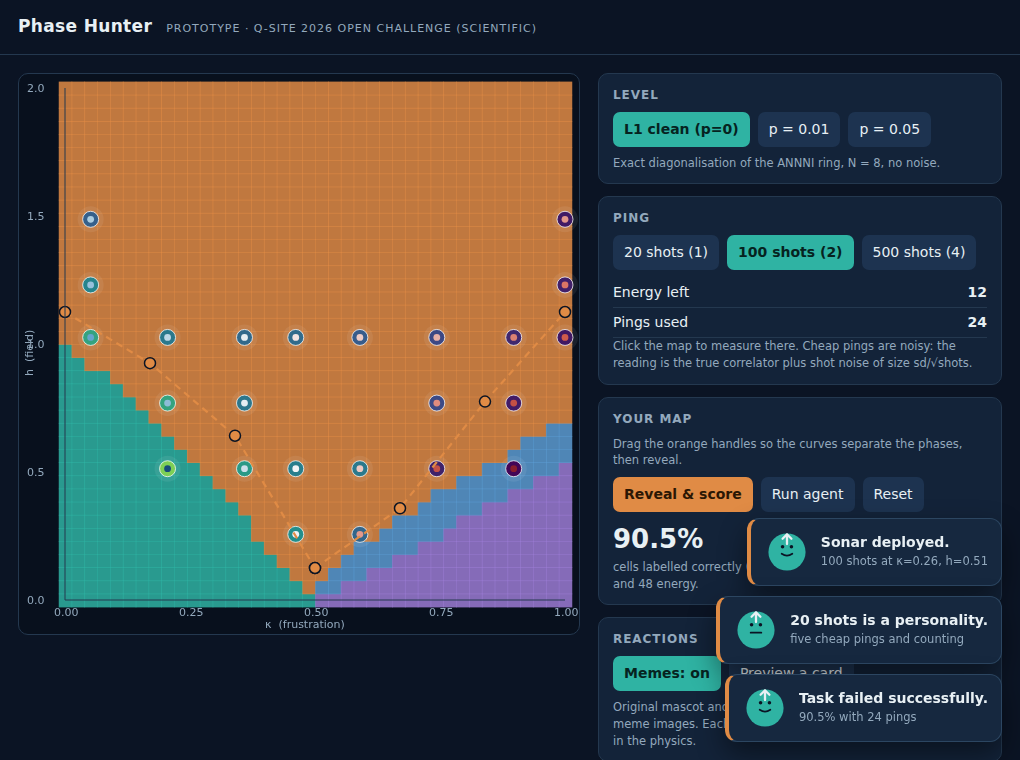
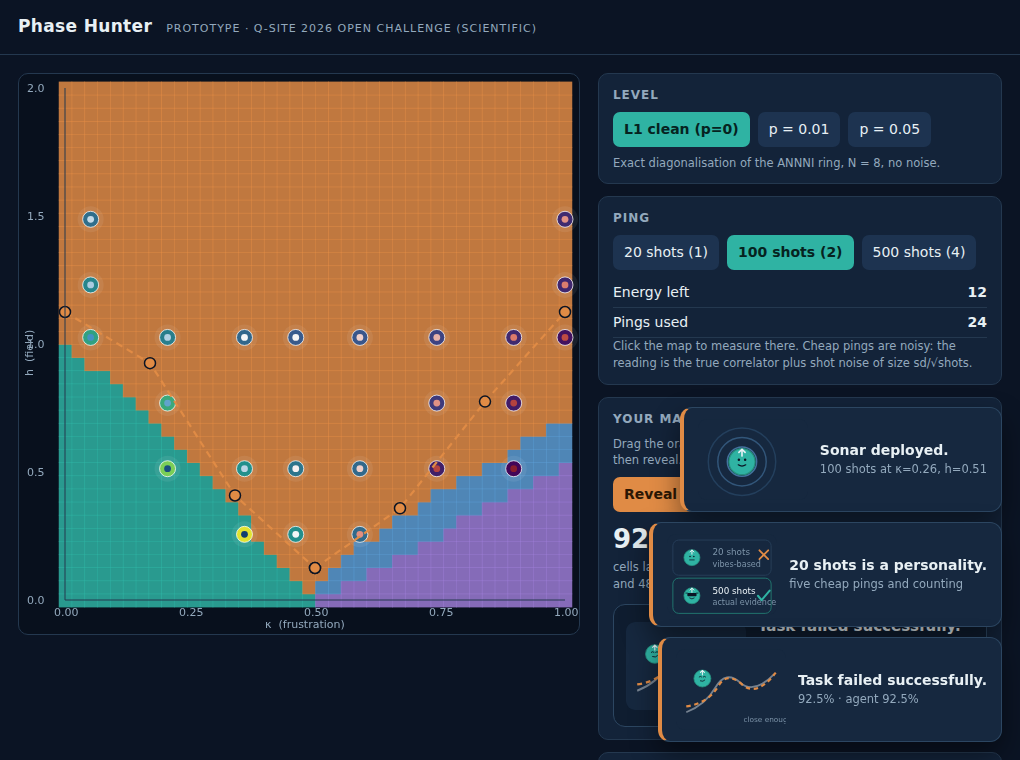
Draw the memes: 13 original SVG scenes instead of text-only cards
game/memes.js holds the mascot and every scene (wobbling measurement, two-panel
shot comparison, balloon over the floating band, fog bank, trophy robot, stamp).
Revealing a map now also prints a screenshot-ready result panel. All art is ours;
no copyrighted meme images or photographs.

diff --git a/game/memes.js b/game/memes.js
@@ -1,0 +1,200 @@
+/* Phase Hunter reaction art.
+   Every scene below is drawn from scratch as SVG: our own mascot (Spinny, a
+   spin arrow with a face), our own props, our own captions. No copyrighted
+   meme images, photographs, or real people's likenesses ship with this game.  */
+
+const MEME_PALETTE = {
+  ink:"#0B1424", skin:"#2FB3A3", skin2:"#26907F", light:"#E8F0F4",
+  orange:"#E08B45", purple:"#9B7BD4", blue:"#5C9BD1", grey:"#7C93A8", dark:"#16283F"
+};
+
+/* ---- the mascot ------------------------------------------------------- */
+function face(mood){
+  const P = MEME_PALETTE;
+  return {
+    neutral:`<circle cx="-5" cy="-3" r="2" fill="${P.ink}"/><circle cx="5" cy="-3" r="2" fill="${P.ink}"/>
+             <path d="M-6 5 q6 4 12 0" stroke="${P.ink}" stroke-width="2" fill="none" stroke-linecap="round"/>`,
+    cool:`<rect x="-12" y="-7" width="24" height="8" rx="2" fill="${P.ink}"/>
+          <path d="M-12 -7 h-4 M12 -7 h4" stroke="${P.ink}" stroke-width="2" stroke-linecap="round"/>
+          <path d="M-6 6 q6 5 12 0" stroke="${P.ink}" stroke-width="2" fill="none" stroke-linecap="round"/>`,
+    shock:`<circle cx="-5" cy="-4" r="3.2" fill="${P.ink}"/><circle cx="5" cy="-4" r="3.2" fill="${P.ink}"/>
+           <ellipse cx="0" cy="6" rx="4" ry="5" fill="${P.ink}"/>`,
+    sweat:`<circle cx="-5" cy="-3" r="2" fill="${P.ink}"/><circle cx="5" cy="-3" r="2" fill="${P.ink}"/>
+           <path d="M-6 7 q6 -4 12 0" stroke="${P.ink}" stroke-width="2" fill="none" stroke-linecap="round"/>
+           <path d="M13 -10 q3 5 0 7 q-3 -2 0 -7" fill="${P.blue}"/>`,
+    flat:`<circle cx="-5" cy="-3" r="2" fill="${P.ink}"/><circle cx="5" cy="-3" r="2" fill="${P.ink}"/>
+          <path d="M-6 6 h12" stroke="${P.ink}" stroke-width="2" stroke-linecap="round"/>`,
+    smug:`<path d="M-8 -4 q3 -3 6 0" stroke="${P.ink}" stroke-width="2" fill="none" stroke-linecap="round"/>
+          <path d="M2 -4 q3 -3 6 0" stroke="${P.ink}" stroke-width="2" fill="none" stroke-linecap="round"/>
+          <path d="M-5 6 q7 3 11 -2" stroke="${P.ink}" stroke-width="2" fill="none" stroke-linecap="round"/>`,
+    dizzy:`<path d="M-8 -6 l6 6 M-2 -6 l-6 6" stroke="${P.ink}" stroke-width="2" stroke-linecap="round"/>
+           <path d="M2 -6 l6 6 M8 -6 l-6 6" stroke="${P.ink}" stroke-width="2" stroke-linecap="round"/>
+           <path d="M-5 7 q5 -5 10 0" stroke="${P.ink}" stroke-width="2" fill="none" stroke-linecap="round"/>`
+  }[mood] || "";
+}
+function spin(mood, x=0, y=0, size=1, tilt=0, glow=0){
+  const P = MEME_PALETTE;
+  return `<g transform="translate(${x} ${y}) scale(${size}) rotate(${tilt})">
+    ${glow ? `<circle r="30" fill="${P.skin}" opacity="${0.12*glow}"/><circle r="24" fill="${P.skin}" opacity="${0.12*glow}"/>`:""}
+    <circle r="21" fill="${P.skin}"/><circle r="21" fill="none" stroke="${P.skin2}" stroke-width="2"/>
+    <path d="M0 -20 v11 M-5 -15 l5 -5 l5 5" stroke="${P.light}" stroke-width="2.6" fill="none"
+          stroke-linecap="round" stroke-linejoin="round"/>
+    ${face(mood)}</g>`;
+}
+const svg = (w,h,body,bg="#16283F") =>
+  `<svg viewBox="0 0 ${w} ${h}" width="100%" height="100%" preserveAspectRatio="xMidYMid meet" aria-hidden="true">
+     <rect width="${w}" height="${h}" rx="10" fill="${bg}"/>${body}</svg>`;
+const P = MEME_PALETTE;
+
+/* ---- scenes ----------------------------------------------------------- */
+const SCENES = {
+  /* a wobbly measuring stick and two numbers that disagree */
+  trust: svg(150,110,`
+    <text x="14" y="26" fill="${P.grey}" font-size="13" font-family="system-ui">truth 0.48</text>
+    <text x="14" y="96" fill="${P.orange}" font-size="15" font-weight="700" font-family="system-ui">read 0.71</text>
+    <path d="M12 60 H138" stroke="${P.grey}" stroke-width="2" stroke-dasharray="4 5"/>
+    <path d="M30 60 q20 -26 40 -4 q18 20 40 -16" stroke="${P.orange}" stroke-width="3" fill="none" stroke-linecap="round"/>
+    ${spin("shock",112,34,0.72)}`),
+
+  /* sonar rings going out from the mascot */
+  sonar: svg(150,110,`
+    <circle cx="60" cy="58" r="20" fill="none" stroke="${P.blue}" stroke-width="2" opacity=".65"/>
+    <circle cx="60" cy="58" r="33" fill="none" stroke="${P.blue}" stroke-width="2" opacity=".4"/>
+    <circle cx="60" cy="58" r="46" fill="none" stroke="${P.blue}" stroke-width="2" opacity=".2"/>
+    ${spin("neutral",60,58,0.85)}`),
+
+  /* sunglasses drop: mascot above a beaten robot rival */
+  shades: svg(150,110,`
+    ${spin("cool",50,55,1.05)}
+    <g transform="translate(112 62)">
+      <rect x="-16" y="-16" width="32" height="30" rx="7" fill="${P.dark}" stroke="${P.grey}" stroke-width="2"/>
+      <circle cx="-6" cy="-4" r="2.4" fill="${P.grey}"/><circle cx="6" cy="-4" r="2.4" fill="${P.grey}"/>
+      <path d="M-7 7 q7 -5 14 0" stroke="${P.grey}" stroke-width="2" fill="none" stroke-linecap="round"/>
+      <path d="M0 -16 v-7" stroke="${P.grey}" stroke-width="2"/><circle cx="0" cy="-25" r="2.6" fill="${P.grey}"/>
+    </g>
+    <text x="96" y="100" fill="${P.grey}" font-size="11" font-family="system-ui">the agent</text>`),
+
+  /* the scenic route: a winding path past the target */
+  scenic: svg(150,110,`
+    <path d="M16 94 q30 -18 12 -34 q-16 -16 24 -24 q40 -8 76 10" stroke="${P.orange}" stroke-width="3"
+          fill="none" stroke-dasharray="6 6" stroke-linecap="round"/>
+    <circle cx="128" cy="46" r="7" fill="none" stroke="${P.light}" stroke-width="2"/>
+    <circle cx="128" cy="46" r="2.5" fill="${P.light}"/>
+    ${spin("sweat",34,72,0.62,-8)}
+    <g transform="translate(58 84)"><rect x="-9" y="-7" width="18" height="13" rx="2" fill="${P.purple}"/>
+      <path d="M-4 -7 v-3 h8 v3" stroke="${P.purple}" stroke-width="2" fill="none"/></g>`),
+
+  /* empty battery */
+  broke: svg(150,110,`
+    <g transform="translate(96 56)">
+      <rect x="-34" y="-17" width="64" height="34" rx="6" fill="none" stroke="${P.grey}" stroke-width="3"/>
+      <rect x="34" y="-7" width="6" height="14" rx="2" fill="${P.grey}"/>
+      <rect x="-29" y="-12" width="8" height="24" rx="2" fill="${P.orange}"/>
+    </g>
+    ${spin("dizzy",40,58,0.8)}`),
+
+  /* floating phase: mascot drifting up on a balloon between two lines */
+  floating: svg(150,110,`
+    <path d="M10 82 H140" stroke="${P.purple}" stroke-width="2.5"/>
+    <path d="M10 34 H140" stroke="${P.orange}" stroke-width="2.5" stroke-dasharray="5 5"/>
+    <text x="12" y="96" fill="${P.purple}" font-size="10" font-family="system-ui">antiphase</text>
+    <text x="12" y="26" fill="${P.orange}" font-size="10" font-family="system-ui">paramagnet</text>
+    <path d="M75 46 v12" stroke="${P.light}" stroke-width="1.5"/>
+    <ellipse cx="75" cy="40" rx="9" ry="11" fill="${P.blue}" opacity=".8"/>
+    ${spin("shock",75,66,0.6)}`),
+
+  /* fog rolling in */
+  fog: svg(150,110,`
+    ${spin("sweat",44,66,0.8)}
+    <g fill="${P.grey}" opacity=".35">
+      <ellipse cx="104" cy="44" rx="34" ry="14"/><ellipse cx="122" cy="62" rx="28" ry="12"/>
+      <ellipse cx="96" cy="78" rx="32" ry="13"/>
+    </g>
+    <g fill="${P.grey}" opacity=".2"><ellipse cx="70" cy="90" rx="46" ry="12"/></g>`),
+
+  /* two-panel: cheap vs sharp ping */
+  twopanel: svg(150,110,`
+    <g transform="translate(0 4)">
+      <rect x="8" y="4" width="134" height="48" rx="8" fill="${P.dark}" stroke="#2c4661"/>
+      ${spin("flat",34,28,0.52)}
+      <text x="62" y="25" fill="${P.grey}" font-size="12" font-family="system-ui">20 shots</text>
+      <text x="62" y="41" fill="${P.grey}" font-size="11" font-family="system-ui">vibes-based</text>
+      <path d="M126 18 l12 12 M138 18 l-12 12" stroke="${P.orange}" stroke-width="2.5" stroke-linecap="round"/>
+    </g>
+    <g transform="translate(0 4)">
+      <rect x="8" y="56" width="134" height="48" rx="8" fill="${P.dark}" stroke="${P.skin2}"/>
+      ${spin("cool",34,80,0.52)}
+      <text x="62" y="77" fill="${P.light}" font-size="12" font-family="system-ui">500 shots</text>
+      <text x="62" y="93" fill="${P.grey}" font-size="11" font-family="system-ui">actual evidence</text>
+      <path d="M124 80 l5 6 l11 -13" stroke="${P.skin}" stroke-width="2.8" fill="none"
+            stroke-linecap="round" stroke-linejoin="round"/>
+    </g>`),
+
+  /* escalating glow: the budget ladder */
+  ladder: svg(150,110,`
+    ${[0,1,2,3].map(i=>`<g transform="translate(${22+i*36} ${86-i*18})">
+        ${spin(["flat","neutral","smug","cool"][i],0,0,0.42,0,i)}</g>`).join("")}
+    <text x="10" y="18" fill="${P.grey}" font-size="10" font-family="system-ui">20 → 100 → 500 → ask the agent</text>`),
+
+  /* repeat ping */
+  repeat: svg(150,110,`
+    ${spin("flat",52,58,0.85)}
+    <g transform="translate(112 58)">
+      <circle r="17" fill="none" stroke="${P.grey}" stroke-width="2.5" stroke-dasharray="4 4"/>
+      <path d="M0 -17 l6 -6 l-6 -6" stroke="${P.grey}" stroke-width="2.5" fill="none"
+            stroke-linecap="round" stroke-linejoin="round"/>
+      <circle r="4" fill="${P.grey}"/>
+    </g>`),
+
+  /* certified: a stamp */
+  certified: svg(150,110,`
+    ${spin("cool",50,58,0.95)}
+    <g transform="translate(110 54) rotate(-14)">
+      <rect x="-32" y="-18" width="64" height="36" rx="6" fill="none" stroke="${P.skin}" stroke-width="3"/>
+      <text x="0" y="-2" fill="${P.skin}" font-size="11" font-weight="700" text-anchor="middle"
+            font-family="system-ui">PHASE</text>
+      <text x="0" y="12" fill="${P.skin}" font-size="11" font-weight="700" text-anchor="middle"
+            font-family="system-ui">HUNTER</text>
+    </g>`),
+
+  /* the rival wins: robot holding the trophy */
+  rival: svg(150,110,`
+    ${spin("flat",36,66,0.72)}
+    <g transform="translate(104 58)">
+      <rect x="-18" y="-16" width="36" height="32" rx="8" fill="${P.dark}" stroke="${P.grey}" stroke-width="2"/>
+      <circle cx="-7" cy="-4" r="2.6" fill="${P.skin}"/><circle cx="7" cy="-4" r="2.6" fill="${P.skin}"/>
+      <path d="M-7 7 q7 4 14 -1" stroke="${P.skin}" stroke-width="2" fill="none" stroke-linecap="round"/>
+      <path d="M0 -16 v-7" stroke="${P.grey}" stroke-width="2"/><circle cx="0" cy="-25" r="2.6" fill="${P.grey}"/>
+    </g>
+    <g transform="translate(104 20)">
+      <path d="M-9 -8 h18 v6 a9 9 0 0 1 -18 0 z" fill="${P.orange}"/>
+      <path d="M-9 -6 h-5 a5 5 0 0 0 5 5 M9 -6 h5 a5 5 0 0 1 -5 5" stroke="${P.orange}" stroke-width="2" fill="none"/>
+      <rect x="-3" y="4" width="6" height="5" fill="${P.orange}"/><rect x="-7" y="9" width="14" height="3" rx="1" fill="${P.orange}"/>
+    </g>`),
+
+  /* mid score: a shrug with a wonky boundary */
+  wonky: svg(150,110,`
+    <path d="M14 86 q26 -10 40 -34 q14 -24 34 -6 q18 16 46 -12" stroke="${P.light}" stroke-width="2.5"
+          fill="none" opacity=".45"/>
+    <path d="M14 78 q30 -4 44 -28 q12 -20 32 -2 q20 18 46 -16" stroke="${P.orange}" stroke-width="3"
+          fill="none" stroke-dasharray="6 5"/>
+    ${spin("smug",36,40,0.55)}
+    <text x="92" y="100" fill="${P.grey}" font-size="10" font-family="system-ui">close enough</text>`)
+};
+
+/* card id -> art + caption. Captions are ours. */
+const CARDS = {
+  first_ping:   {scene:"sonar",     text:"Sonar deployed."},
+  noisy_ping:   {scene:"trust",     text:"Trust me bro."},
+  cheap_habit:  {scene:"twopanel",  text:"20 shots is a personality."},
+  big_spend:    {scene:"ladder",    text:"Deluxe measurement acquired."},
+  repeat_ping:  {scene:"repeat",    text:"Measuring it twice won't move the boundary."},
+  floating_hit: {scene:"floating",  text:"Wait, it was floating the whole time?"},
+  broke:        {scene:"broke",     text:"Budget: 0. Vibes: immaculate."},
+  noise_up:     {scene:"fog",       text:"The fog is coming."},
+  reveal_high:  {scene:"certified", text:"Certified phase hunter."},
+  reveal_mid:   {scene:"wonky",     text:"Task failed successfully."},
+  reveal_low:   {scene:"scenic",    text:"Bro took the scenic route."},
+  beat_agent:   {scene:"shades",    text:"I would like to speak to my developer."},
+  lost_agent:   {scene:"rival",     text:"The agent sends its regards."}
+};

diff --git a/game/index.html b/game/index.html
@@ -33,14 +33,22 @@
   .big{font-size:26px;font-weight:700}
   /* meme reaction cards */
   #cards{position:fixed;right:18px;bottom:18px;display:flex;flex-direction:column;gap:10px;z-index:40;align-items:flex-end}
-  .rc{display:flex;gap:11px;align-items:center;background:#16283f;border:1px solid #2c4661;border-left:4px solid var(--orange);
-      border-radius:12px;padding:10px 13px;max-width:335px;box-shadow:0 12px 28px rgba(0,0,0,.45);cursor:pointer;
+  .rc{display:flex;gap:12px;align-items:center;background:#16283f;border:1px solid #2c4661;border-left:4px solid var(--orange);
+      border-radius:12px;padding:11px 14px;max-width:380px;box-shadow:0 12px 28px rgba(0,0,0,.45);cursor:pointer;
       animation:pop .22s ease-out; transition:opacity .25s, transform .25s}
+  .rc .art{width:110px;height:81px;flex:0 0 110px;border-radius:9px;overflow:hidden;background:#16283F}
   .rc.out{opacity:0;transform:translateX(18px)}
   .rc .txt b{display:block;font-size:14px;line-height:1.3}
   .rc .txt span{display:block;font-size:11.5px;color:var(--muted);margin-top:2px;font-variant-numeric:tabular-nums}
   @keyframes pop{from{opacity:0;transform:translateY(10px) scale(.96)}to{opacity:1;transform:none}}
   @media (prefers-reduced-motion:reduce){.rc{animation:none}}
+  #endcard{display:none;margin-top:12px}
+  #endcard .panel{display:flex;gap:12px;align-items:center;background:#0F1D30;border:1px solid #2c4661;
+                  border-radius:12px;padding:12px}
+  #endcard .art{width:120px;height:88px;flex:0 0 120px;border-radius:9px;overflow:hidden}
+  #endcard b{display:block;font-size:15px;line-height:1.25}
+  #endcard span{display:block;font-size:12px;color:var(--muted);margin-top:3px;font-variant-numeric:tabular-nums}
+  #endcard em{display:block;font-size:11px;color:var(--muted);margin-top:6px;font-style:normal;opacity:.75}
 </style>
 </head>
 <body>
@@ -74,6 +82,7 @@
         <button id="reset">Reset</button>
       </div>
       <div id="score"></div>
+      <div id="endcard"></div>
     </div>
     <div class="card">
       <h2>Reactions</h2>
@@ -99,6 +108,7 @@
   </aside>
 </main>
 <script src="dataset.js"></script>
+<script src="memes.js"></script>
 <script>
 const PHASE = {FERRO:0, PARA:1, ANTI:2, FLOAT:3};
 const COLORS = ["#2FB3A3","#E08B45","#9B7BD4","#5C9BD1"];
@@ -250,62 +260,38 @@ canvas.addEventListener("pointermove",e=>{
   drag.h=Math.max(0,Math.min(2,toH(y))); draw();
 });
 window.addEventListener("pointerup",()=>{drag=null;});
+function endPanel(id, headline, detail){
+  const wrap=document.getElementById("endcard");
+  wrap.innerHTML = `<div class="panel">
+      <div class="art">${SCENES[CARDS[id].scene]||""}</div>
+      <div><b>${CARDS[id].text}</b><span>${headline}</span><em>${detail}</em></div>
+    </div>`;
+  wrap.style.display="block";
+}
 document.getElementById("reveal").onclick=()=>{
   revealed=true; draw();
   const s=score();
   document.getElementById("score").innerHTML=
     `<div class="big">${(s*100).toFixed(1)}%</div><div class="note">cells labelled correctly (floating band excluded),
      using ${pings.length} pings and ${60-energy} energy.</div>`;
-  if(agentScore!==null && s>agentScore) react("beat_agent", `you ${(s*100).toFixed(1)}% · agent ${(agentScore*100).toFixed(1)}%`);
-  else if(agentScore!==null && s<agentScore) react("lost_agent", `you ${(s*100).toFixed(1)}% · agent ${(agentScore*100).toFixed(1)}%`);
-  else if(s>=0.95) react("reveal_high", `${pings.length} pings`);
-  else if(s>=0.80) react("reveal_mid", `${(s*100).toFixed(1)}% with ${pings.length} pings`);
-  else react("reveal_low", `${(s*100).toFixed(1)}% with ${pings.length} pings`);
+  const id = (agentScore!==null && s>agentScore) ? "beat_agent"
+           : (agentScore!==null && s<agentScore) ? "lost_agent"
+           : s>=0.95 ? "reveal_high" : s>=0.80 ? "reveal_mid" : "reveal_low";
+  const vs = agentScore!==null ? ` · agent ${(agentScore*100).toFixed(1)}%` : "";
+  react(id, `${(s*100).toFixed(1)}%${vs}`);
+  endPanel(id, `${(s*100).toFixed(1)}% correct · ${pings.length} pings · ${60-energy} energy${vs}`,
+           `Phase Hunter · ANNNI ring N=${data.qubits} · level ${data.levels[level].name}`);
 };
 document.getElementById("reset").onclick=reset;
 function reset(){
   energy=60; pings=[]; revealed=false; cheapPings=0;
   document.getElementById("score").innerHTML="";
+  const ec=document.getElementById("endcard"); if(ec){ ec.style.display="none"; ec.innerHTML=""; }
   document.getElementById("energy").textContent=energy;
   document.getElementById("pings").textContent=0;
   draw();
 }
 
-/* ------------------------------------------------------------------
-   Spinny: our own mascot. A spin arrow with a face, drawn as inline SVG
-   so nothing copyrighted ships with the game.
------------------------------------------------------------------- */
-function spinny(mood){
-  const face = {
-    neutral: '<circle cx="21" cy="20" r="2" fill="#0B1424"/><circle cx="31" cy="20" r="2" fill="#0B1424"/><path d="M20 28 q6 4 12 0" stroke="#0B1424" stroke-width="2" fill="none" stroke-linecap="round"/>',
-    cool:    '<rect x="14" y="16" width="24" height="8" rx="2" fill="#0B1424"/><path d="M20 29 q6 5 12 0" stroke="#0B1424" stroke-width="2" fill="none" stroke-linecap="round"/>',
-    shock:   '<circle cx="21" cy="19" r="3" fill="#0B1424"/><circle cx="31" cy="19" r="3" fill="#0B1424"/><ellipse cx="26" cy="29" rx="4" ry="5" fill="#0B1424"/>',
-    sweat:   '<circle cx="21" cy="20" r="2" fill="#0B1424"/><circle cx="31" cy="20" r="2" fill="#0B1424"/><path d="M20 30 q6 -4 12 0" stroke="#0B1424" stroke-width="2" fill="none" stroke-linecap="round"/><path d="M38 14 q3 5 0 7 q-3 -2 0 -7" fill="#5C9BD1"/>',
-    flat:    '<circle cx="21" cy="20" r="2" fill="#0B1424"/><circle cx="31" cy="20" r="2" fill="#0B1424"/><path d="M20 29 h12" stroke="#0B1424" stroke-width="2" stroke-linecap="round"/>'
-  }[mood] || '';
-  return `<svg width="46" height="46" viewBox="0 0 52 52" aria-hidden="true">
-    <circle cx="26" cy="26" r="21" fill="#2FB3A3"/>
-    <path d="M26 6 v11 M21 11 l5 -5 l5 5" stroke="#E8F0F4" stroke-width="2.6" fill="none" stroke-linecap="round" stroke-linejoin="round"/>
-    ${face}</svg>`;
-}
-
-/* Reaction cards. Every entry is written for a specific game event, so the
-   joke lands on a moment the player just lived through. */
-const CARDS = {
-  first_ping:   {mood:"neutral", text:"Sonar deployed."},
-  noisy_ping:   {mood:"shock",   text:"Trust me bro."},
-  cheap_habit:  {mood:"flat",    text:"20 shots is a personality."},
-  big_spend:    {mood:"cool",    text:"Deluxe measurement acquired."},
-  repeat_ping:  {mood:"flat",    text:"Measuring it twice won't move the boundary."},
-  floating_hit: {mood:"shock",   text:"Wait, it was floating the whole time?"},
-  broke:        {mood:"sweat",   text:"Budget: 0. Vibes: immaculate."},
-  noise_up:     {mood:"sweat",   text:"The fog is coming."},
-  reveal_high:  {mood:"cool",    text:"Certified phase hunter."},
-  reveal_mid:   {mood:"neutral", text:"Task failed successfully."},
-  reveal_low:   {mood:"sweat",   text:"Bro took the scenic route."},
-  beat_agent:   {mood:"cool",    text:"I would like to speak to my developer."},
-  lost_agent:   {mood:"flat",    text:"The agent sends its regards."}
-};
 let memesOn = true, lastCard = 0, cheapPings = 0, agentScore = null;
 function react(id, detail){
   if(!memesOn || !CARDS[id]) return;
@@ -314,7 +300,7 @@ function react(id, detail){
   lastCard = now;
   const card = document.createElement("div");
   card.className = "rc";
-  card.innerHTML = spinny(CARDS[id].mood) +
+  card.innerHTML = `<div class="art">${SCENES[CARDS[id].scene]||""}</div>` +
     `<div class="txt"><b>${CARDS[id].text}</b>${detail?`<span>${detail}</span>`:""}</div>`;
   const kill = () => { card.classList.add("out"); setTimeout(()=>card.remove(), 260); };
   card.onclick = kill;

diff --git a/README.md b/README.md
@@ -58,18 +58,22 @@ the human-versus-agent measurement-budget experiment is still to come.
 
 ### Reactions (the meme layer)
 
-![reaction card](figures/reaction_card.png)
+![the thirteen reaction cards](figures/meme_wall.png)
 
-Spinny, our spin-arrow mascot, reacts to what just happened. A ping that lands more than two standard
-deviations from the truth gets *"Trust me bro"* with the reading and the true value underneath; five
-cheap pings in a row gets *"20 shots is a personality"*; beating the agent gets *"I would like to
-speak to my developer"*. Thirteen cards are wired to specific game events, so a card also tells the
-player something true about the run.
+Spinny, our spin-arrow mascot, reacts to what just happened, and each card is a drawn scene rather
+than a caption on its own. A ping landing more than two standard deviations from the truth gets
+*"Trust me bro"* over a wobbling measurement, with the reading and the true value printed underneath.
+Five cheap pings in a row gets a two-panel *"20 shots is a personality"*. A ping inside the floating
+band gets Spinny drifting on a balloon between the two boundary lines. Beating the agent gets the
+sunglasses; losing to it gets the robot holding the trophy. Revealing your map also prints a result
+panel worth screenshotting.
 
-Everything is original: the mascot is drawn as inline SVG in `game/index.html`, and the captions are
-ours. We ship no copyrighted meme images or photographs, and no real person's likeness. Cards appear
-one at a time, are dismissible, auto-hide after four seconds, honour `prefers-reduced-motion`, and can
-be switched off with the **Memes** toggle.
+All thirteen cards fire on real game state, so the joke doubles as feedback about the run.
+
+**Everything is original art.** The mascot, the props and the captions are ours, drawn as inline SVG
+in `game/memes.js`. We ship no copyrighted meme images, no photographs, and no real person's likeness
+— which matters for a public repo. Cards appear one at a time, are dismissible, auto-hide after four
+seconds, honour `prefers-reduced-motion`, and can be switched off with the **Memes** toggle.
 
 ---
 
@@ -126,6 +130,7 @@ scripts/make_dataset.py    grid scan -> data/ + game/dataset.js
 scripts/make_figures.py    figures/
 scripts/run_pennylane.py   cross-check and noise pilot
 game/index.html            playable prototype (no build step)
+game/memes.js              original mascot art and the thirteen reaction cards
 docs/Phase_Hunter_Plan.pdf full project plan: game design, levels, experiment, schedule
 ```
 
